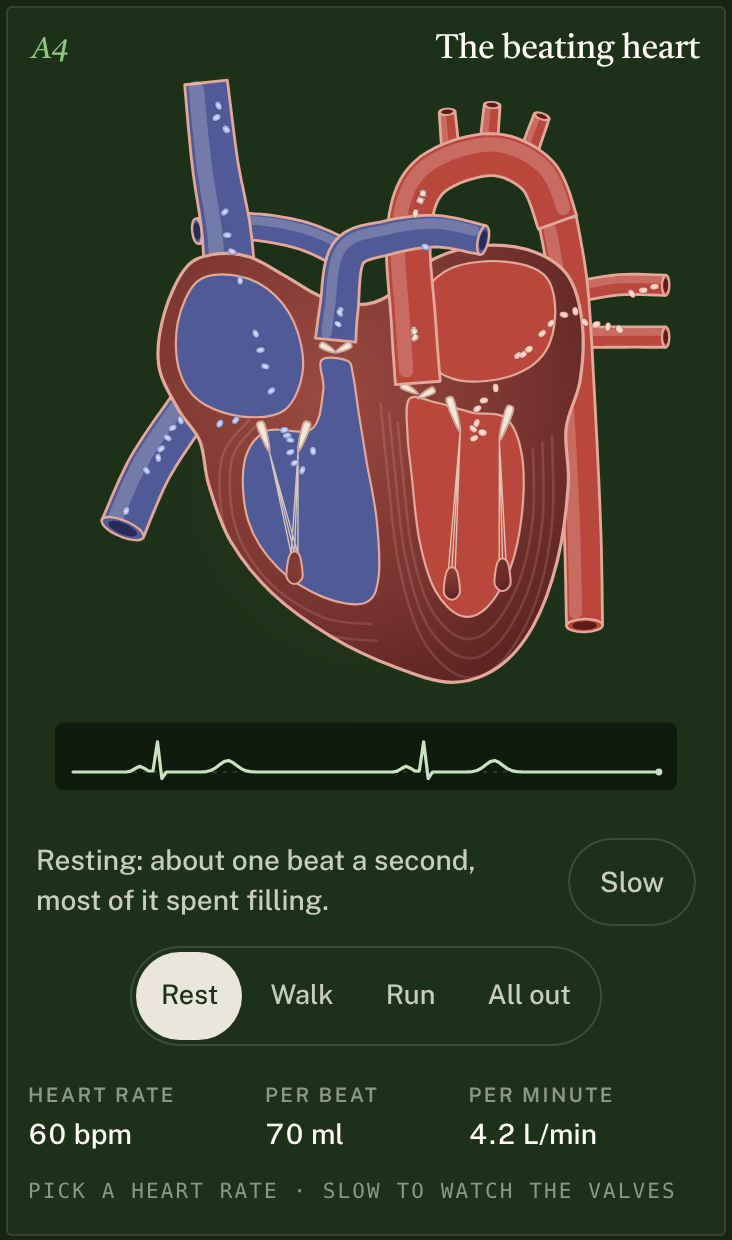
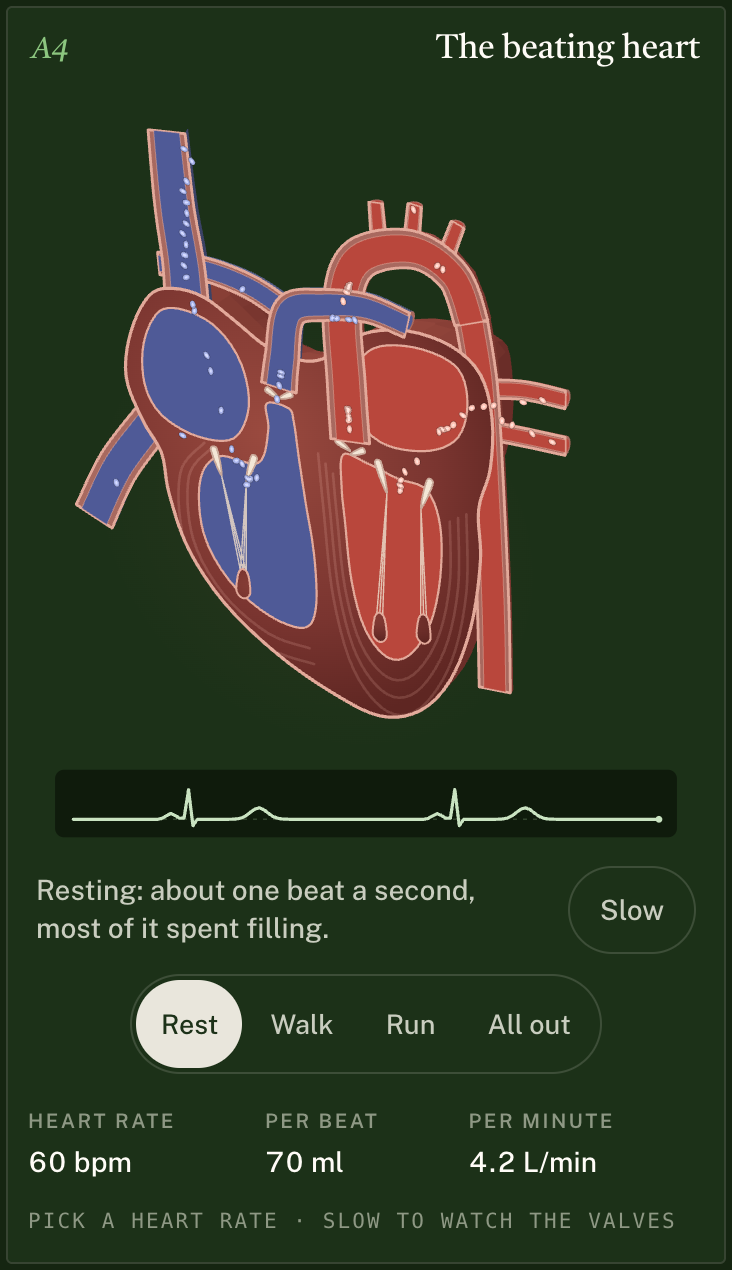
A4: the heart cut in half, back half round and beating
Same approach as A7, which Peter approved ("just do it like this").

- New shared/round-back.js: the far half of a cut organ, drawn behind
  the cut face in the series camera. rim() rolls a closed outline back
  over a quarter-round (a circle becomes a hemisphere). chords() sweeps
  paired edges into half-circles, with optional half-ring cut ends.
  Facets facing away are culled, the rest are shaded in 21 tones, and
  paintObjects() merges them per object and tone (about 100 paths a
  frame).
- A4: the beating outline and every great vessel are redrawn behind
  the cut each frame. Vessels on the cut face are now cut open (wall
  band each side, blood down the middle), and their cut ends show as
  half-rings in 3-D. The round-1 sheen and flat end ellipses are gone.
- The frame is fitted to the heart, its vessels and the back half's
  reach, with the ECG flat underneath (600 × 666).
- Verified: 390/360/320 in both themes, reduced motion and desktop
  (Rest and All out). No sideways scroll, console clean, line ends 0.

diff --git a/shared/round-back.js b/shared/round-back.js
@@ -1,0 +1,190 @@
+// Round back: the far half of an organ cut open, drawn behind its cut face in the A-series camera.
+//
+// Browser-side helper, inlined into a figure's page (build.mjs reads this file). The cut face lies
+// in the plane the figure places with planeMatrix(S3(0, DEP, 0), [1,0,0], [0,0,-1]): section x is
+// world x, section y is −z, and the viewer is on the +y side. `w` is one unit of depth behind the cut
+// expressed in the cut face's own coordinates (the figure solves it once in build.mjs).
+//
+//   const RB = roundBack({ w, A: 62, E: 24, dep: DEP });
+//   const quads = [
+//     ...RB.rim(RB.sampleClosed(outline), { tones: [lo, hi] }),      // a blob: each outline point rolls back
+//     ...RB.chords(leftEdge, rightEdge, { tones: [lo, hi] }),       // a limb or a vessel: paired edges, half-circles
+//   ];
+//   group.innerHTML = RB.paint(quads);
+//
+// Facets facing away from the viewer are culled; the rest are shaded by facing (light from the upper
+// left front) between two tones and painted back to front.
+function roundBack({ w, A = 62, E = 24, dep = 0, light = [-0.35, 0.55, 0.76] }) {
+  const RAD = Math.PI / 180;
+  const sA = Math.sin(A * RAD), cA = Math.cos(A * RAD), sE = Math.sin(E * RAD), cE = Math.cos(E * RAD);
+  const VIEW = [cA * cE, sA * cE, sE];
+  const lm = Math.hypot(...light);
+  const L = light.map((v) => v / lm);
+  const f1 = (v) => v.toFixed(1);
+  const key = (cx, cy, d) => (cx * cA + (dep - d) * sA) * cE - cy * sE;
+  const shade = (n, tones) => {
+    const lit = Math.max(0, n[0] * L[0] + n[1] * L[1] + n[2] * L[2]);
+    const t = Math.round(Math.min(1, 0.18 + 0.95 * lit) * 20) / 20; // 21 tones, so facets can be merged by colour
+    const [lo, hi] = tones;
+    return `rgb(${lo.map((v, i) => Math.round(v + (hi[i] - v) * t)).join(",")})`;
+  };
+  const facing = (n) => n[0] * VIEW[0] + n[1] * VIEW[1] + n[2] * VIEW[2];
+  const quad = (pts) => `M${pts.map((v) => `${f1(v[0])} ${f1(v[1])}`).join("L")}Z`;
+
+  /** Catmull-Rom (as the figures' smooth(), tension k) sampled into points; closed or open. */
+  function sample(points, closed, k = 1, steps = 8) {
+    const n = points.length;
+    const at = (i) => points[closed ? (i + n) % n : Math.max(0, Math.min(n - 1, i))];
+    const out = [points[0]];
+    for (let i = 0; i < (closed ? n : n - 1); i++) {
+      const p0 = at(i - 1), p1 = at(i), p2 = at(i + 1), p3 = at(i + 2);
+      const c1 = [p1[0] + ((p2[0] - p0[0]) / 6) * k, p1[1] + ((p2[1] - p0[1]) / 6) * k];
+      const c2 = [p2[0] - ((p3[0] - p1[0]) / 6) * k, p2[1] - ((p3[1] - p1[1]) / 6) * k];
+      for (let s = 1; s <= steps; s++) {
+        const t = s / steps;
+        const u = 1 - t;
+        out.push([0, 1].map((c) => u * u * u * p1[c] + 3 * u * u * t * c1[c] + 3 * u * t * t * c2[c] + t * t * t * p2[c]));
+      }
+    }
+    if (closed) out.pop();
+    return out;
+  }
+  /** Resample a polyline to n points evenly by length. */
+  function byLength(pts, n) {
+    const acc = [0];
+    for (let i = 1; i < pts.length; i++) acc.push(acc[i - 1] + Math.hypot(pts[i][0] - pts[i - 1][0], pts[i][1] - pts[i - 1][1]));
+    const total = acc[acc.length - 1];
+    const out = [];
+    let j = 0;
+    for (let q = 0; q < n; q++) {
+      const want = (total * q) / (n - 1);
+      while (j < acc.length - 2 && acc[j + 1] < want) j++;
+      const t = (want - acc[j]) / (acc[j + 1] - acc[j] || 1);
+      out.push([pts[j][0] + (pts[j + 1][0] - pts[j][0]) * t, pts[j][1] + (pts[j + 1][1] - pts[j][1]) * t]);
+    }
+    return out;
+  }
+
+  /** Paired edges (a limb, a vessel): each chord A_i–B_i swept round behind the cut as a half-circle.
+   *  caps: [atStart, atEnd] draws a cut end as a half-ring (wall, then lumen of `lumen` × the radius) when it faces the viewer. */
+  function chords(Ae, Be, { round = 0.95, nphi = 24, tones, caps = [false, false], capFill, lumenFill, lumen = 0.7 }) {
+    const lv = Ae.map((a, i) => {
+      const b = Be[i];
+      const h = [(b[0] - a[0]) / 2, (b[1] - a[1]) / 2];
+      const r = Math.hypot(h[0], h[1]) || 1e-6;
+      return { m: [(a[0] + b[0]) / 2, (a[1] + b[1]) / 2], h, r, u: [h[0] / r, h[1] / r] };
+    });
+    const pt = (l, ph) => {
+      const d = Math.sin(ph) * l.r * round;
+      return [l.m[0] + Math.cos(ph) * l.h[0] + d * w[0], l.m[1] + Math.cos(ph) * l.h[1] + d * w[1]];
+    };
+    const out = [];
+    for (let i = 0; i < lv.length - 1; i++) {
+      const l0 = lv[i];
+      const l1 = lv[i + 1];
+      const ux = l0.u[0] + l1.u[0];
+      const uy = l0.u[1] + l1.u[1];
+      const um = Math.hypot(ux, uy) || 1;
+      for (let j = 0; j < nphi; j++) {
+        const p0 = (j / nphi) * Math.PI;
+        const p1 = ((j + 1) / nphi) * Math.PI;
+        const pm = (p0 + p1) / 2;
+        const n = [(Math.cos(pm) * ux) / um, -Math.sin(pm), (-Math.cos(pm) * uy) / um];
+        if (facing(n) <= 0.01) continue;
+        const cx = (l0.m[0] + l1.m[0]) / 2 + (Math.cos(pm) * (l0.h[0] + l1.h[0])) / 2;
+        const cy = (l0.m[1] + l1.m[1]) / 2 + (Math.cos(pm) * (l0.h[1] + l1.h[1])) / 2;
+        const d = Math.sin(pm) * ((l0.r + l1.r) / 2) * round;
+        out.push({ key: key(cx, cy, d), d: quad([pt(l0, p0), pt(l1, p0), pt(l1, p1), pt(l0, p1)]), fill: shade(n, tones) });
+      }
+    }
+    [0, lv.length - 1].forEach((i, e) => {
+      if (!caps[e] || lv.length < 2) return;
+      const l = lv[i];
+      const nb = lv[e ? i - 1 : i + 1];
+      const t = [l.m[0] - nb.m[0], l.m[1] - nb.m[1]];
+      const tl = Math.hypot(t[0], t[1]) || 1;
+      if (facing([t[0] / tl, 0, -t[1] / tl]) <= 0.01) return;
+      const ring = (k) => {
+        const ps = [];
+        for (let j = 0; j <= 24; j++) {
+          const ph = (j / 24) * Math.PI;
+          const d = Math.sin(ph) * l.r * round * k;
+          ps.push([l.m[0] + Math.cos(ph) * l.h[0] * k + d * w[0], l.m[1] + Math.cos(ph) * l.h[1] * k + d * w[1]]);
+        }
+        return quad(ps);
+      };
+      const kk = key(l.m[0], l.m[1], l.r * round * 0.4) + 0.5;
+      out.push({ key: kk, d: ring(1), fill: capFill || shade([t[0] / tl, 0, -t[1] / tl], tones) });
+      out.push({ key: kk + 0.01, d: ring(lumen), fill: lumenFill || "#000" });
+    });
+    return out;
+  }
+
+  /** A closed outline (a blob): each point rolls back over a quarter-round of radius rho(i) toward the inside,
+   *  so a circle becomes a hemisphere. Points must be evenly spaced (use byLength). */
+  function rim(pts, { rho, round = 0.95, nphi = 10, tones }) {
+    const n = pts.length;
+    let area = 0;
+    for (let i = 0; i < n; i++) area += pts[i][0] * pts[(i + 1) % n][1] - pts[(i + 1) % n][0] * pts[i][1];
+    const sgn = area > 0 ? 1 : -1; // outward normal side for this winding (section y points down)
+    const nrm = pts.map((p, i) => {
+      const a = pts[(i - 1 + n) % n];
+      const b = pts[(i + 1) % n];
+      const l = Math.hypot(b[0] - a[0], b[1] - a[1]) || 1;
+      return [(sgn * (b[1] - a[1])) / l, (-sgn * (b[0] - a[0])) / l];
+    });
+    const R = pts.map((p, i) => (typeof rho === "function" ? rho(p, i) : rho));
+    const pt = (i, ph) => {
+      const r = R[i];
+      const back = Math.sin(ph) * r * round;
+      const inn = (1 - Math.cos(ph)) * r;
+      return [pts[i][0] - nrm[i][0] * inn + back * w[0], pts[i][1] - nrm[i][1] * inn + back * w[1]];
+    };
+    const out = [];
+    for (let i = 0; i < n; i++) {
+      const i1 = (i + 1) % n;
+      const nx = nrm[i][0] + nrm[i1][0];
+      const ny = nrm[i][1] + nrm[i1][1];
+      const nm = Math.hypot(nx, ny) || 1;
+      for (let j = 0; j < nphi; j++) {
+        const p0 = (j / nphi) * (Math.PI / 2);
+        const p1 = ((j + 1) / nphi) * (Math.PI / 2);
+        const pm = (p0 + p1) / 2;
+        const nn = [(Math.cos(pm) * nx) / nm, -Math.sin(pm), (-Math.cos(pm) * ny) / nm];
+        if (facing(nn) <= 0.01) continue;
+        const r = (R[i] + R[i1]) / 2;
+        const inn = (1 - Math.cos(pm)) * r;
+        const cx = (pts[i][0] + pts[i1][0]) / 2 - (nx / nm) * inn;
+        const cy = (pts[i][1] + pts[i1][1]) / 2 - (ny / nm) * inn;
+        out.push({ key: key(cx, cy, Math.sin(pm) * r * round), d: quad([pt(i, p0), pt(i1, p0), pt(i1, p1), pt(i, p1)]), fill: shade(nn, tones) });
+      }
+    }
+    return out;
+  }
+
+  /** All facets back to front, each with a hairline of its own colour so neighbours meet without seams. */
+  function paint(quads) {
+    quads.sort((a, b) => a.key - b.key);
+    return quads.map((v) => `<path d="${v.d}" fill="${v.fill}" stroke="${v.fill}" stroke-width="0.7" stroke-linejoin="round"/>`).join("");
+  }
+  /** Several objects (each a list of facets): objects back to front by their mean depth, each object's facets
+   *  merged into one path per tone. Far fewer nodes per frame; fine because one object's visible facets don't overlap. */
+  function paintObjects(objects) {
+    const live = objects.filter((o) => o.length).map((o) => ({ o, k: o.reduce((s, q) => s + q.key, 0) / o.length }));
+    live.sort((a, b) => a.k - b.k);
+    let svg = "";
+    for (const { o } of live) {
+      const byFill = new Map();
+      for (const q of o) byFill.set(q.fill, (byFill.get(q.fill) || "") + q.d);
+      for (const [fill, d] of byFill) svg += `<path d="${d}" fill="${fill}" stroke="${fill}" stroke-width="0.7" stroke-linejoin="round"/>`;
+    }
+    return svg;
+  }
+  /** Theme colour (#rrggbb custom property) as [r, g, b]. */
+  function rgbOf(el, name, fallback) {
+    const v = (getComputedStyle(el).getPropertyValue(name) || "").trim();
+    const m = /^#?([0-9a-f]{6})$/i.exec(v) || /^#?([0-9a-f]{6})$/i.exec(fallback);
+    return [0, 2, 4].map((i) => parseInt(m[1].slice(i, i + 2), 16));
+  }
+  return { sampleClosed: (p, k, s) => sample(p, true, k, s), sampleOpen: (p, k, s) => sample(p, false, k, s), byLength, chords, rim, paint, paintObjects, rgbOf };
+}

diff --git a/figures/a4-heart/live.js b/figures/a4-heart/live.js
@@ -1,4 +1,5 @@
-// A4 live code: the heart cut open, beating at the chosen rate. Everything is redrawn from the
+// A4 live code: the heart cut open front to back, beating at the chosen rate. The back half's round
+// wall and the vessels' half-tubes are redrawn each frame behind the cut (shared/round-back.js). Everything is redrawn from the
 // beat model each frame through one deformation field: the chambers squeeze toward their middles,
 // the walls thicken, and the valve plane is pulled down toward the apex as the ventricles empty.
 const DATA = __DATA__;
@@ -61,50 +62,55 @@ function mount(fig) {
     const pts = [...L, ...R.reverse()];
     return `M${pts.map((p) => `${f1(p[0])} ${f1(p[1])}`).join("L")}Z`;
   }
-  /** A vessel: tube, a sheen on the side facing the light (upper left), and cut ends showing the lumen. */
+  /** A vessel, cut open lengthwise like the heart: a wall band each side, the lumen (blood) down the middle.
+   *  Its back half and any cut ends (capA, capB) are drawn in 3-D behind the cut (drawBack). */
+  const tubes = []; // this frame's vessels, for their back halves
   function vessel(name, list, cls) {
     let h = "";
     for (const [pts, w0, w1, capA, capB] of list) {
-      const c = curve(pts);
-      const wAt = (i) => w0 + (w1 - w0) * (i / (c.length - 1));
-      const nAt = (i) => {
-        const a = c[Math.max(0, i - 1)];
-        const b = c[Math.min(c.length - 1, i + 1)];
-        const l = Math.hypot(b[0] - a[0], b[1] - a[1]) || 1;
-        return [-(b[1] - a[1]) / l, (b[0] - a[0]) / l];
-      };
-      let side = 0;
-      c.forEach((_, i) => {
-        const n = nAt(i);
-        side += -n[0] - n[1];
-      });
-      side = side >= 0 ? 1 : -1;
-      const i0 = Math.floor(c.length * 0.06);
-      const i1 = Math.ceil(c.length * 0.94);
-      let sh = "";
-      for (let i = i0; i < i1; i++) {
-        const n = nAt(i);
-        const o = side * wAt(i) * 0.24;
-        sh += `${sh ? "L" : "M"}${f1(c[i][0] + n[0] * o)} ${f1(c[i][1] + n[1] * o)}`;
-      }
-      h += `<path class="a4-${cls} a4-vessel" d="${tube(pts, w0, w1)}"/><path class="a4-sheen" d="${sh}" style="stroke-width:${f1(Math.min(w0, w1) * 0.2)}px"/>`;
-      for (const [on, i, w] of [[capA, 0, w0], [capB, c.length - 1, w1]]) {
-        if (!on) continue;
-        const n = nAt(i);
-        const ang = ((Math.atan2(n[1], n[0]) * 180) / Math.PI).toFixed(0);
-        const e = (k) => {
-          const a = (w / 2) * k;
-          const b = a * 0.36;
-          return `M${f1(c[i][0] - n[0] * a)} ${f1(c[i][1] - n[1] * a)}A${f1(a)} ${f1(b)} ${ang} 1 0 ${f1(c[i][0] + n[0] * a)} ${f1(c[i][1] + n[1] * a)}A${f1(a)} ${f1(b)} ${ang} 1 0 ${f1(c[i][0] - n[0] * a)} ${f1(c[i][1] - n[1] * a)}Z`;
-        };
-        h += `<path class="a4-cap a4-cap-${cls}" d="${e(1)}"/><path class="a4-lumen a4-lumen-${cls}" d="${e(0.68)}"/>`;
-      }
+      tubes.push({ pts, w0, w1, cls, caps: [capA, capB] });
+      h += `<path class="a4-${cls} a4-vessel" d="${tube(pts, w0, w1)}"/><path class="a4-lumen a4-lumen-${cls} a4-lumen-cut" d="${tube(pts, w0 * 0.7, w1 * 0.7)}"/>`;
     }
     q(`[data-v="${name}"]`).innerHTML = h;
   }
   const centroid = (pts) => pts.reduce((a, p) => [a[0] + p[0] / pts.length, a[1] + p[1] / pts.length], [0, 0]);
   const C = { RA: centroid(G.RA), LA: centroid(G.LA), RV: centroid(G.RV), LV: centroid(G.LV), V: [320, 392] };
   const FIB = { lv: G.LV.filter((p) => p[1] > G.AVY + 16), rv: G.RV.slice(0, 6) };
+
+  // ---------------------------------------------------------------- the back half (behind the cut)
+  const RB = roundBack(DATA.far);
+  const mixc = (c, to, t) => c.map((v, i) => Math.round(v + (to[i] - v) * t));
+  const TONES = {
+    heart: [RB.rgbOf(fig, "--a4-m2", "#b0604f"), RB.rgbOf(fig, "--a4-m0", "#e7a594")],
+    ven: ((c) => [mixc(c, [0, 0, 0], 0.45), mixc(c, [255, 255, 255], 0.25)])(RB.rgbOf(fig, "--a4-ven", "#8892cc")),
+    art: ((c) => [mixc(c, [0, 0, 0], 0.45), mixc(c, [255, 255, 255], 0.25)])(RB.rgbOf(fig, "--a4-art", "#dc6656")),
+  };
+  // a cut end: the wall as a pale ring, the blood inside in the same colour as the chambers
+  const LUMEN = { ven: `rgb(${RB.rgbOf(fig, "--a4-ven", "#8892cc").join(",")})`, art: `rgb(${RB.rgbOf(fig, "--a4-art", "#dc6656").join(",")})` };
+  const WALL = `rgb(${RB.rgbOf(fig, "--a4-vwall", "#f3d9cf").join(",")})`;
+  function drawBack(outline) {
+    const closed = RB.sampleClosed(outline, 1, 6);
+    const ring = RB.byLength([...closed, closed[0]], 73).slice(0, -1);
+    const cx = ring.reduce((a, p) => a + p[0], 0) / ring.length;
+    const cy = ring.reduce((a, p) => a + p[1], 0) / ring.length;
+    const objects = [RB.rim(ring, { rho: (p) => 0.9 * Math.hypot(p[0] - cx, p[1] - cy), nphi: 8, tones: TONES.heart })];
+    for (const t of tubes) {
+      const c = RB.byLength(curve(t.pts), 18);
+      const Ae = [];
+      const Be = [];
+      c.forEach((p, i) => {
+        const a = c[Math.max(0, i - 1)];
+        const b = c[Math.min(c.length - 1, i + 1)];
+        const l = Math.hypot(b[0] - a[0], b[1] - a[1]) || 1;
+        const n = [-(b[1] - a[1]) / l, (b[0] - a[0]) / l];
+        const w = (t.w0 + (t.w1 - t.w0) * (i / (c.length - 1))) / 2;
+        Ae.push([p[0] + n[0] * w, p[1] + n[1] * w]);
+        Be.push([p[0] - n[0] * w, p[1] - n[1] * w]);
+      });
+      objects.push(RB.chords(Ae, Be, { round: 1, nphi: 12, tones: TONES[t.cls], caps: t.caps || [false, false], capFill: WALL, lumenFill: LUMEN[t.cls] }));
+    }
+    q('[data-part="far"]').innerHTML = RB.paintObjects(objects);
+  }
 
   // ---------------------------------------------------------------- the deformation field
   let def = { d: 0, sV: 1, sA: 1, sO: 1 };
@@ -237,7 +243,9 @@ function mount(fig) {
     const contr = Math.min(1, Math.max(0, (b.edv - b.V) / (b.edv - b.esv)));
     def = { d: 15 * contr, sV, sA: b.A, sO: 1 - 0.22 * (1 - sV) };
     const sA = 0.78 + 0.22 * b.A;
-    set('[data-part="outer"]', smooth(outer()));
+    tubes.length = 0;
+    const outline = outer();
+    set('[data-part="outer"]', smooth(outline));
     set('[data-part="ra"]', smooth(cav(G.RA, C.RA, sA)));
     set('[data-part="la"]', smooth(cav(G.LA, C.LA, sA)));
     set('[data-part="rv"]', smooth(cav(G.RV, C.RV, sV)));
@@ -277,6 +285,7 @@ function mount(fig) {
     }
     // a soft glow as the ventricles squeeze
     q('[data-part="glow"]').setAttribute("opacity", (0.15 + 0.5 * contr).toFixed(2));
+    drawBack(outline);
   }
 
   // ---------------------------------------------------------------- state, input, tour

diff --git a/figures/a4-heart/figure.css b/figures/a4-heart/figure.css
@@ -48,3 +48,11 @@
 .a4-par { display: block; margin-top: 6px; }
 .a4-par:first-child { margin-top: 0; }
 .a4-par small { font-size: 12.5px; color: var(--anatomy-muted); }
+
+/* round 2: cut open front to back; vessels show wall bands and blood, the back half rounds away behind */
+.iso.optimal { --a4-vwall: #a8695f; }
+.iso.optimal[data-theme="light"] { --a4-vwall: #f3d9cf; }
+.a4-front .a4-vessel { fill: var(--a4-vwall); }
+.a4-front .a4-lumen-cut.a4-lumen-ven { fill: var(--a4-ven); }
+.a4-front .a4-lumen-cut.a4-lumen-art { fill: var(--a4-art); }
+.a4-lumen-cut { stroke: var(--a4-wall); stroke-width: 0.5; stroke-opacity: 0.5; }

diff --git a/figures/a4-heart/NOTES.md b/figures/a4-heart/NOTES.md
@@ -1,6 +1,6 @@
 # A4 · The beating heart
 
-**What it is:** the heart cut open from the front, beating. Hand-drawn organic SVG in A1's style, redrawn every frame from a small beat model through one deformation field:
+**What it is:** the heart cut open front to back and seen in isometric 3-D (round 3, 2026-10-12), beating. Hand-drawn organic SVG in A1's style, redrawn every frame from a small beat model through one deformation field:
 - the chambers squeeze toward their middles;
 - the walls thicken;
 - the valve plane is pulled toward the apex as the ventricles empty;
@@ -55,3 +55,23 @@ This brings the finish up to A2/A5/A6. The model, timing and numbers are unchang
 
 1. **Placement:** VO₂max page (next to Fig 5), the Performance package, or both?
 2. **Rhythm:** add a "trained athlete" option (resting rate 45–50, a bigger beat)? It would need a source for athletes' stroke volume.
+
+## Round 3 (2026-10-12): cut in half, back half round (the A7 approach)
+
+Peter's decision: every A-piece goes 3-D. Peter approved the A7 approach ("this is way better, just do it like this"): the organ cut in half, with the far half kept round.
+- **Cut face:** the original front section, placed with `planeMatrix` in the series camera (azimuth 62°, elevation 24°). The chambers, valves, chordae, cells and glow all still draw in section coordinates.
+- **Back half (live, `drawBack()` with `shared/round-back.js`):**
+  - **Heart wall:** each frame, the heart's beating outline is rolled back over a quarter-round of 0.9 × its distance from the centre, so a round outline becomes a hemisphere. Facing facets are shaded between the muscle tones, so the back wall beats with the cut face.
+  - **Great vessels:** each becomes a half-tube behind its cut.
+  - **Cut ends** (venae cavae, pulmonary vessels, arch branches, descending aorta) show as half-rings: the wall, with the blood inside.
+- **Vessels on the cut face are now cut open:** a pale wall band each side and blood down the middle, in the chamber pools' colours. The round-1 sheen and the flat end ellipses are gone, because they showed whole tubes.
+- **Frame:** fitted to the heart and its vessels plus the back half's reach. The ECG sits flat underneath, and the view is 600 × 666.
+- **Cost:** facets are merged per object and per tone (21 tones), so a frame is about 100 paths.
+
+## Verification (2026-10-12, round 3, local)
+
+- `node scripts/verify.mjs a4-heart`: passed.
+- No console errors, and no sideways scroll at 390, 360 or 320 in either theme.
+- `lines.mjs`: 0.
+- Reduced motion draws one still mid-ejection.
+- Captures: `shots/phone-{390,360,320}-{dark,light}.png`, `shots/desktop-{dark,light}.png` and `shots/reduced-390-*.png` (Rest), plus `shots/desktop-max-{dark,light}.png` (All out).

diff --git a/HANDOFF-LOCAL.md b/HANDOFF-LOCAL.md
@@ -34,7 +34,7 @@ claude                                # Claude Code reads CLAUDE.md on start
 | A1 | Gut cell's gate | **Round 2 · 3-D block** (2026-10-12): brush border of 272 microvilli on top, cells cut on the right end, capillary half-tube | `a1-gut-cell` |
 | A2 | Hot-flash switch (hypothalamus) | Built; **treatment states added**: Hormone therapy / Non-hormonal (class names only) | `a2-hypothalamus` |
 | A3 | Finger's heat valves · 3-D | **Approved look** ("a3b is great"). The A3b block build folded into A3 on 2026-10-12; flat A3 and `a3b-skin-block` retired | `a3-finger-skin` |
-| A4 | Beating heart | Built, round 2 (flat, organ) | `a4-heart` |
+| A4 | Beating heart | **Round 3 · 3-D, cut in half** (2026-10-12): back half round and beating (shared/round-back.js), vessels cut open with half-ring ends | `a4-heart` |
 | A5 | Air sac and red cell | **Round 2 · 3-D block of lung** (2026-10-12): Voronoi foam cut on three faces, one sac opened with its bowl, duct to the top | `a5-alveolus` |
 | A6 | Red cell's 120 days | Built (flat, a loop diagram) | `a6-red-cell-cycle` |
 | A7 | Kneecap's load | **Round 2 · 3-D, leg cut in half** (2026-10-12): far half stays round (live), thigh cross-section on top. The organ-piece approach, **waiting on Peter's OK** before A2/A4/A6 | `a7-knee` |

diff --git a/BACKLOG.md b/BACKLOG.md
@@ -41,7 +41,8 @@ Each piece is done when it meets the same bar as HANDOFF §2, adapted:
 | A1 | done: gut-lining block (brush border on top, cells on the end face), 2026-10-12 |
 | A5 | done: lung-tissue block with the air sac opened (2026-10-12) |
 | A7 | done: leg cut in half lengthwise (cut face + round far half drawn live + thigh cross-section on top), 2026-10-12. The flat-walled slab try read as "an unnatural slice" |
-| A2, A4, A6 | same slab approach once Peter OKs A7 |
+| A4 | done: heart cut in half, back half round and beating, vessels cut open (2026-10-12) |
+| A2, A6 | next: same approach (Peter OK'd A7: "just do it like this") |
 
 Recipe: HANDOFF-LOCAL §6.
 
